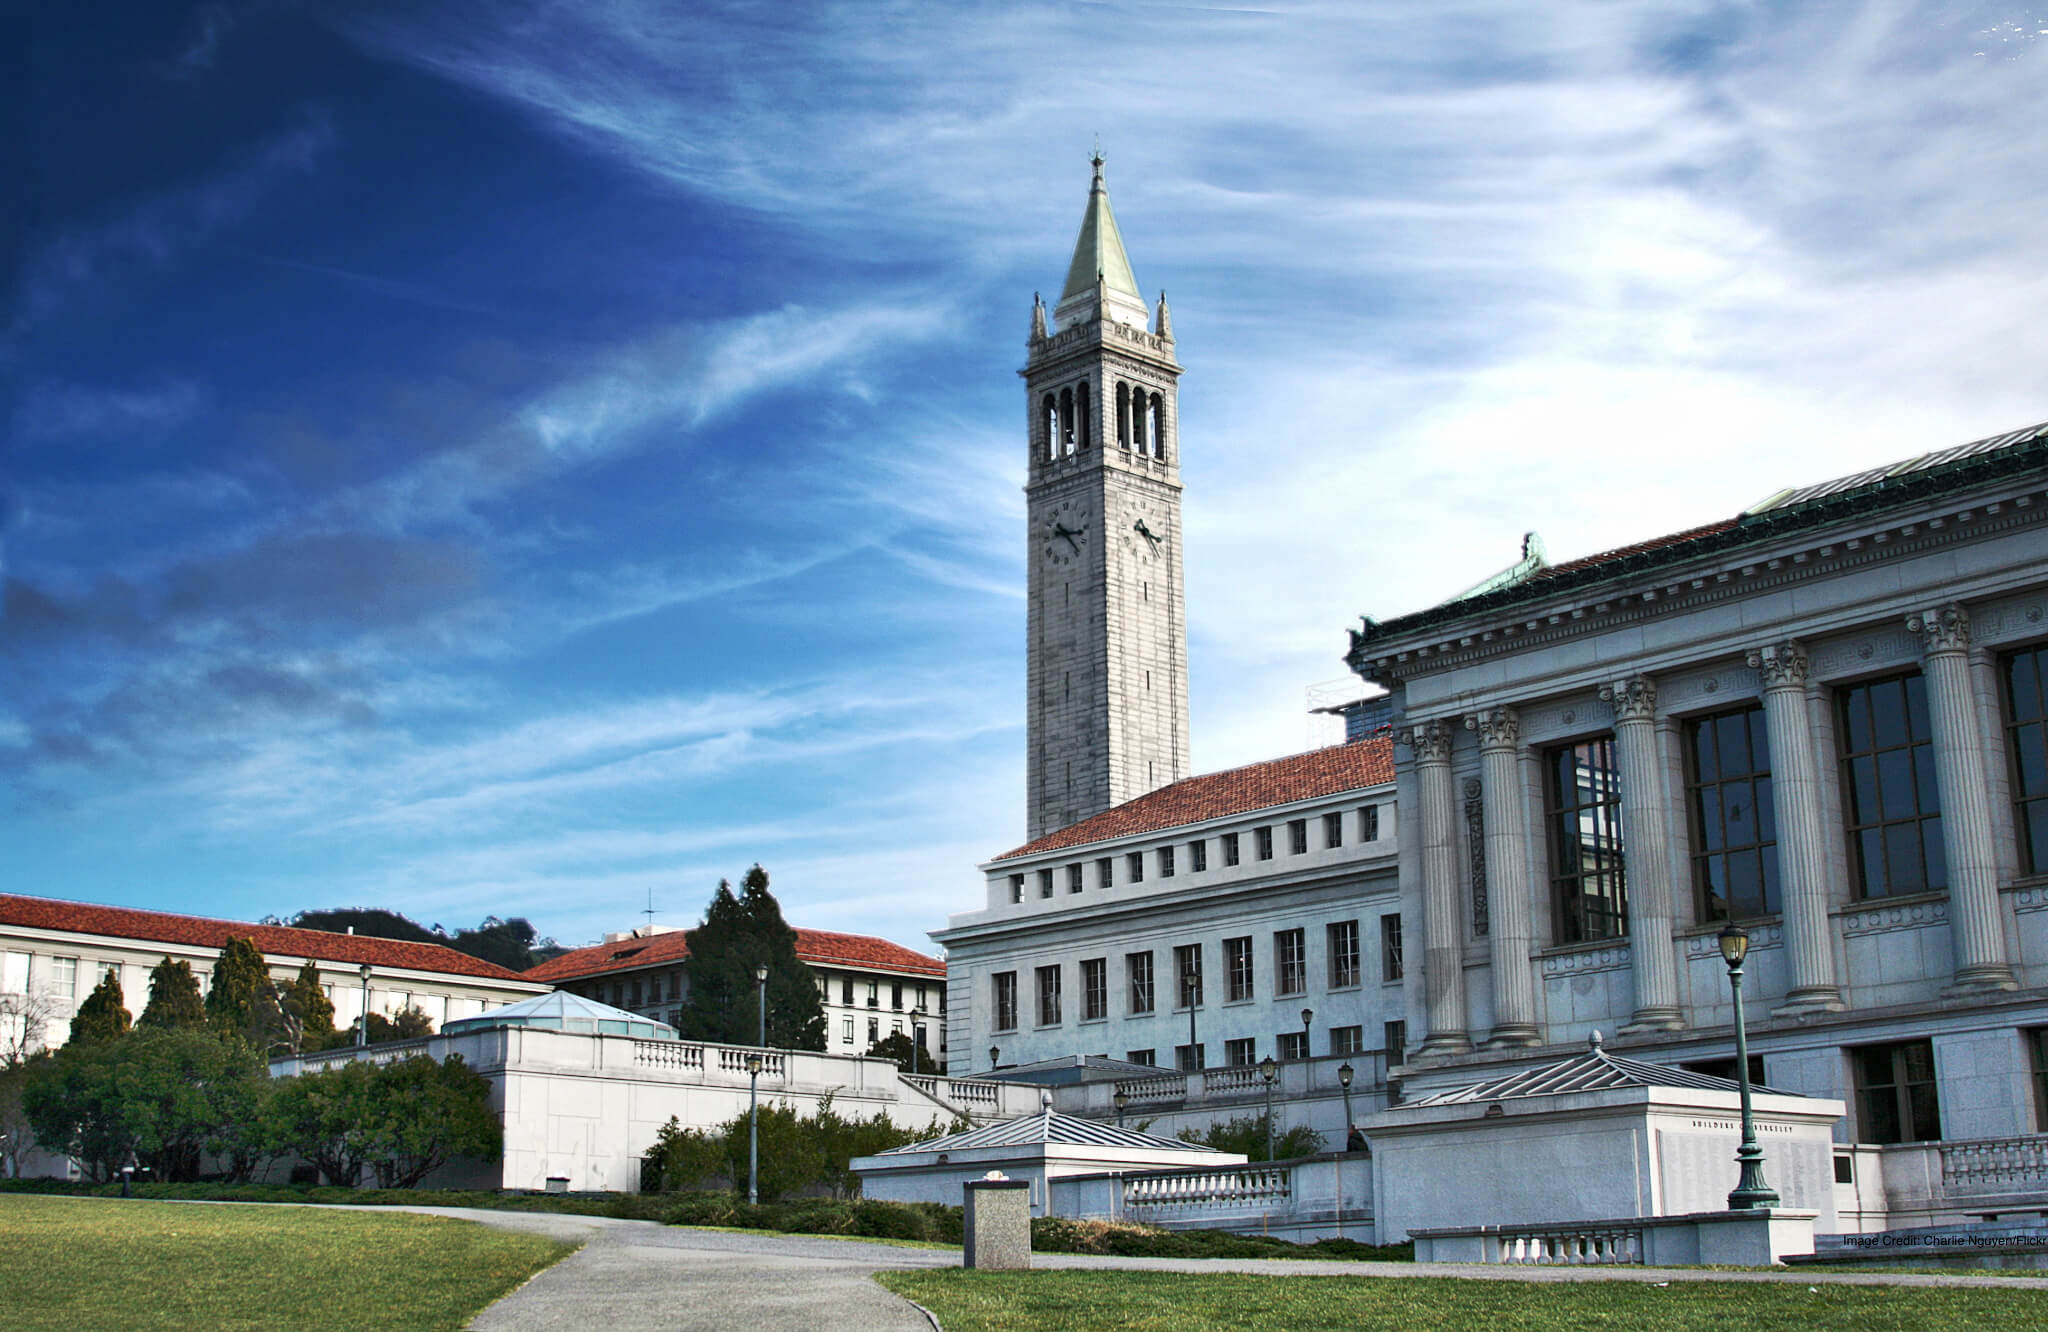
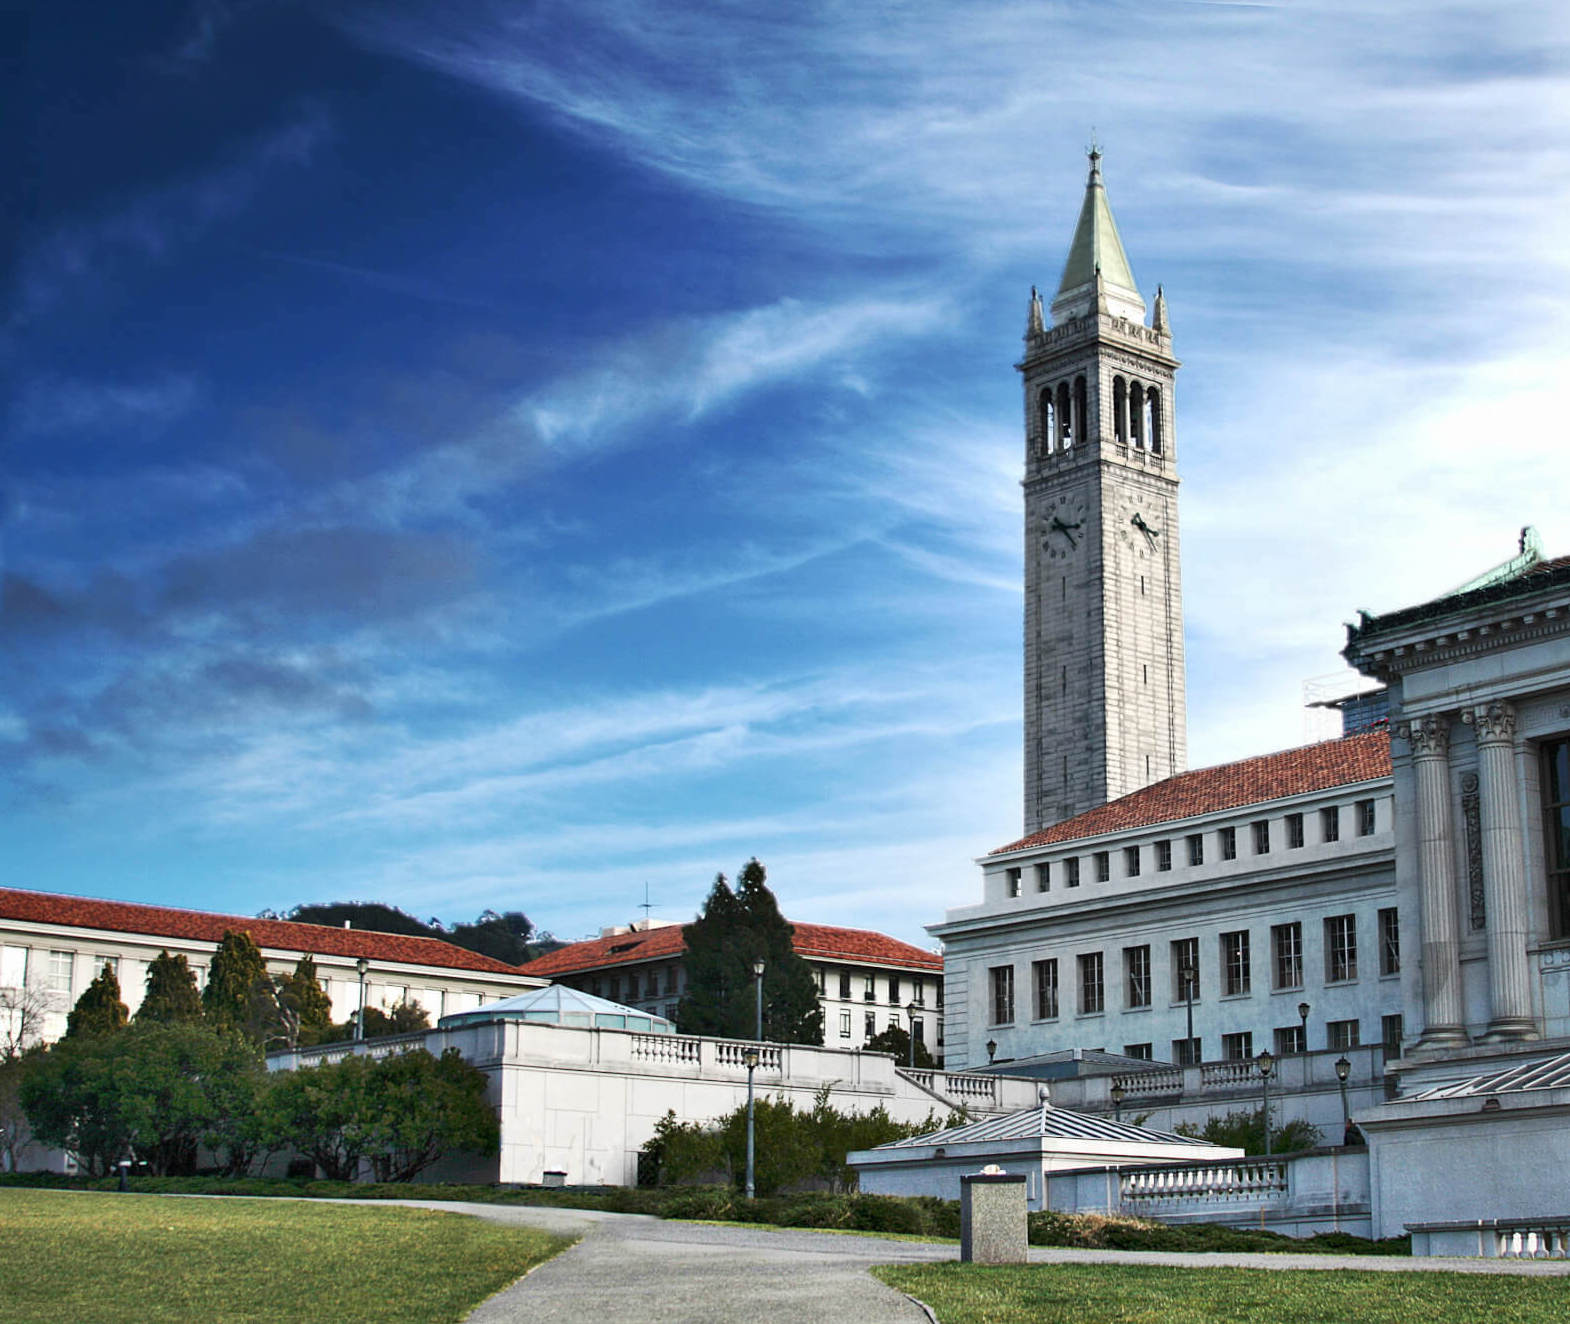
Fixed front page & made hyperlinks

diff --git a/_site/index.html b/_site/index.html
@@ -4,6 +4,7 @@
 <meta http-equiv="Content-Type" content="text/html; charset=utf-8" />
 <title>Prathyusha Charagondla</title>
 <link href='http://fonts.googleapis.com/css?family=Droid+Sans|Zeyada' rel='stylesheet' type='text/css'>
+<link rel="stylesheet" type="text/css" href="//fonts.googleapis.com/css?family=IM+Fell+French+Canon+SC" />
 <style type="text/css">
 * {
   margin: 0;
@@ -11,7 +12,7 @@
   outline: none;
 }
 body { 
-    background-image: url(images/Charlie-Nguyen-UC-Berkeley-Flickr.jpg); /* images/berkeleysather-1920x1080.png);*/
+    background-image: url(images/Berkeley2.jpg);
     background-repeat: no-repeat;
     background-size:cover;
     background-attachment: fixed;
@@ -22,19 +23,26 @@ body {
   width: 100%;
   text-align: center; 
   position: relative;*/
-  width:750px;
+  width:875px;
   margin:0 auto;
   list-style:none;
   position: relative;
 }
 #wrapper h1 {
-  font-family: 'Droid Sans', sans-serif;
-  margin: 125px 0 20px;
+  /*font-family: 'Droid Sans', sans-serif; Amaranth, Hammersmith One,Paytone+One,Sigmar+One */
+  font-family: IM Fell French Canon SC;
+  font-size: 60px;
+  font-style: normal;
+  font-variant: normal;
+  font-weight: 500;
+  line-height: 26.4px;
+  margin: 90px 0 20px;
   text-align: center;
   text-shadow: 0 2px 1px #fff;
+  padding-bottom: 35px;
 }
 #div1 {
-  color: #641d91;
+  color: rgba(255,255,255,0.70);/*#fdff8e;*/
   position: fixed;      
   bottom: 10px; 
   width: 100%;
@@ -47,47 +55,35 @@ body {
   width: 900px;
 }
 #main-nav {
-  /*width: 100%;
   float: left;
-  margin: 0 0 1em 0;
-  padding: 0;
-  box-shadow: 0 0 10px #ccc;*/
-
-  /*background: #7dad16;
-  background: -moz-linear-gradient(top, #7dad16 0%, #547b00 100%);
-  background: -webkit-gradient(linear, left top, left bottom, color-stop(0%,#7dad16), color-stop(100%,#547b00));
-  background: -webkit-linear-gradient(top, #7dad16 0%,#547b00 100%);
-  background: -o-linear-gradient(top, #7dad16 0%,#547b00 100%);
-  background: -ms-linear-gradient(top, #7dad16 0%,#547b00 100%);
-  background: linear-gradient(top, #7dad16 0%,#547b00 100%);
-  filter: progid:DXImageTransform.Microsoft.gradient( startColorstr='#fff', endColorstr='#547b00',GradientType=0 );*/
-  float: left;
-  width: 700px;
+  width: 875px;
   z-index: 1000;
   box-shadow: 0 0 10px #ccc;
   text-align: center;
+  background-color: rgba(255,255,255,0.45);
 }
 #main-nav ul {
-  font-family: 'Droid Sans', sans-serif;
-  font-size: .9em;
+  font-family: IM Fell French Canon SC;/*'Droid Sans', sans-serif;*/
+  font-size: 1.3em;
   font-weight: bold;
   list-style: none;
 }
 #main-nav ul li {
-  border-left: 1px solid #7dad16;
+  border-left: 1px outset;
+  border-color: rgba(0, 0, 0, 0.20);
   float: left;
 }
 #main-nav ul li:first-child {
   border: none;
 }
 #main-nav ul li a {
-  color: #2b4001;
+  color: #000;
   display: block;
   padding: 20px;
   position: relative;
   width: 134.2px;
   text-decoration: none;
-  text-shadow: 0 1px 1px #9fc255;
+  text-shadow: 0 1px 1px #fff;
 }
 #main-nav ul li a span.drop-down {
   background: url(images/down-arrow_green_10x7.png) no-repeat;
@@ -98,7 +94,7 @@ body {
   width: 10px;
 }
 #main-nav ul li:hover {
-  background: #7dad16;
+  background: rgba(255,255,255,0.65);
 }
 /* First Level drop-down */
 #main-nav ul li ul {
@@ -135,10 +131,11 @@ body {
   <!--div class="container"-->
     <div id="main-nav">
       <ul>
-        <li><a href="#">Home</a></li>
+        <li><a href=index.html>Home</a></li>
         <li><a href="#">About</a></li>
-        <li><a href="#">Resume</a></li>
-        <li><a href="#">Contact Me</a></li>
+        <li><a href="https://drive.google.com/file/d/0B-gwprSB9GjDcFFodzlTRU9vRDg/view?usp=sharing" target="_blank">Resume</a></li>
+        <li><a href="#">Projects</a></li>
+        <li><a href=pages/contact.html>Contact Me</a></li>
       </ul>
     </div>
     <!--#main-nav

diff --git a/index.html b/index.html
@@ -4,6 +4,7 @@
 <meta http-equiv="Content-Type" content="text/html; charset=utf-8" />
 <title>Prathyusha Charagondla</title>
 <link href='http://fonts.googleapis.com/css?family=Droid+Sans|Zeyada' rel='stylesheet' type='text/css'>
+<link rel="stylesheet" type="text/css" href="//fonts.googleapis.com/css?family=IM+Fell+French+Canon+SC" />
 <style type="text/css">
 * {
   margin: 0;
@@ -11,7 +12,7 @@
   outline: none;
 }
 body { 
-    background-image: url(images/Charlie-Nguyen-UC-Berkeley-Flickr.jpg); /* images/berkeleysather-1920x1080.png);*/
+    background-image: url(images/Berkeley2.jpg);
     background-repeat: no-repeat;
     background-size:cover;
     background-attachment: fixed;
@@ -22,19 +23,26 @@ body {
   width: 100%;
   text-align: center; 
   position: relative;*/
-  width:750px;
+  width:875px;
   margin:0 auto;
   list-style:none;
   position: relative;
 }
 #wrapper h1 {
-  font-family: 'Droid Sans', sans-serif;
-  margin: 125px 0 20px;
+  /*font-family: 'Droid Sans', sans-serif; Amaranth, Hammersmith One,Paytone+One,Sigmar+One */
+  font-family: IM Fell French Canon SC;
+  font-size: 60px;
+  font-style: normal;
+  font-variant: normal;
+  font-weight: 500;
+  line-height: 26.4px;
+  margin: 90px 0 20px;
   text-align: center;
   text-shadow: 0 2px 1px #fff;
+  padding-bottom: 35px;
 }
 #div1 {
-  color: #641d91;
+  color: rgba(255,255,255,0.70);/*#fdff8e;*/
   position: fixed;      
   bottom: 10px; 
   width: 100%;
@@ -47,47 +55,35 @@ body {
   width: 900px;
 }
 #main-nav {
-  /*width: 100%;
   float: left;
-  margin: 0 0 1em 0;
-  padding: 0;
-  box-shadow: 0 0 10px #ccc;*/
-
-  /*background: #7dad16;
-  background: -moz-linear-gradient(top, #7dad16 0%, #547b00 100%);
-  background: -webkit-gradient(linear, left top, left bottom, color-stop(0%,#7dad16), color-stop(100%,#547b00));
-  background: -webkit-linear-gradient(top, #7dad16 0%,#547b00 100%);
-  background: -o-linear-gradient(top, #7dad16 0%,#547b00 100%);
-  background: -ms-linear-gradient(top, #7dad16 0%,#547b00 100%);
-  background: linear-gradient(top, #7dad16 0%,#547b00 100%);
-  filter: progid:DXImageTransform.Microsoft.gradient( startColorstr='#fff', endColorstr='#547b00',GradientType=0 );*/
-  float: left;
-  width: 700px;
+  width: 875px;
   z-index: 1000;
   box-shadow: 0 0 10px #ccc;
   text-align: center;
+  background-color: rgba(255,255,255,0.45);
 }
 #main-nav ul {
-  font-family: 'Droid Sans', sans-serif;
-  font-size: .9em;
+  font-family: IM Fell French Canon SC;/*'Droid Sans', sans-serif;*/
+  font-size: 1.3em;
   font-weight: bold;
   list-style: none;
 }
 #main-nav ul li {
-  border-left: 1px solid #7dad16;
+  border-left: 1px outset;
+  border-color: rgba(0, 0, 0, 0.20);
   float: left;
 }
 #main-nav ul li:first-child {
   border: none;
 }
 #main-nav ul li a {
-  color: #2b4001;
+  color: #000;
   display: block;
   padding: 20px;
   position: relative;
   width: 134.2px;
   text-decoration: none;
-  text-shadow: 0 1px 1px #9fc255;
+  text-shadow: 0 1px 1px #fff;
 }
 #main-nav ul li a span.drop-down {
   background: url(images/down-arrow_green_10x7.png) no-repeat;
@@ -98,7 +94,7 @@ body {
   width: 10px;
 }
 #main-nav ul li:hover {
-  background: #7dad16;
+  background: rgba(255,255,255,0.65);
 }
 /* First Level drop-down */
 #main-nav ul li ul {
@@ -135,10 +131,11 @@ body {
   <!--div class="container"-->
     <div id="main-nav">
       <ul>
-        <li><a href="#">Home</a></li>
+        <li><a href=index.html>Home</a></li>
         <li><a href="#">About</a></li>
-        <li><a href="#">Resume</a></li>
-        <li><a href="#">Contact Me</a></li>
+        <li><a href="https://drive.google.com/file/d/0B-gwprSB9GjDcFFodzlTRU9vRDg/view?usp=sharing" target="_blank">Resume</a></li>
+        <li><a href="#">Projects</a></li>
+        <li><a href=pages/contact.html>Contact Me</a></li>
       </ul>
     </div>
     <!--#main-nav

diff --git a/_site/stylesheets/stylesheet.css b/_site/stylesheets/stylesheet.css
@@ -371,3 +371,44 @@ footer a:hover {
 
 /* Mobile Portrait Size to Mobile Landscape Size (devices and browsers) */
 @media only screen and (max-width: 479px) { }
+
+h1 {
+  font-family: Monofett;
+  font-size: 24px;
+  font-style: normal;
+  font-variant: normal;
+  font-weight: 500;
+  line-height: 26.4px;
+}
+h3 {
+  font-family: Monofett;
+  font-size: 14px;
+  font-style: normal;
+  font-variant: normal;
+  font-weight: 500;
+  line-height: 15.4px;
+}
+p {
+  font-family: Monofett;
+  font-size: 14px;
+  font-style: normal;
+  font-variant: normal;
+  font-weight: 400;
+  line-height: 20px;
+}
+blockquote {
+  font-family: Monofett;
+  font-size: 21px;
+  font-style: normal;
+  font-variant: normal;
+  font-weight: 400;
+  line-height: 30px;
+}
+pre {
+  font-family: Monofett;
+  font-size: 13px;
+  font-style: normal;
+  font-variant: normal;
+  font-weight: 400;
+  line-height: 18.5714px;
+}

diff --git a/stylesheets/stylesheet.css b/stylesheets/stylesheet.css
@@ -371,3 +371,44 @@ footer a:hover {
 
 /* Mobile Portrait Size to Mobile Landscape Size (devices and browsers) */
 @media only screen and (max-width: 479px) { }
+
+h1 {
+  font-family: Monofett;
+  font-size: 24px;
+  font-style: normal;
+  font-variant: normal;
+  font-weight: 500;
+  line-height: 26.4px;
+}
+h3 {
+  font-family: Monofett;
+  font-size: 14px;
+  font-style: normal;
+  font-variant: normal;
+  font-weight: 500;
+  line-height: 15.4px;
+}
+p {
+  font-family: Monofett;
+  font-size: 14px;
+  font-style: normal;
+  font-variant: normal;
+  font-weight: 400;
+  line-height: 20px;
+}
+blockquote {
+  font-family: Monofett;
+  font-size: 21px;
+  font-style: normal;
+  font-variant: normal;
+  font-weight: 400;
+  line-height: 30px;
+}
+pre {
+  font-family: Monofett;
+  font-size: 13px;
+  font-style: normal;
+  font-variant: normal;
+  font-weight: 400;
+  line-height: 18.5714px;
+}

diff --git a/_site/pages/contact.html b/_site/pages/contact.html
@@ -1,0 +1,22 @@
+<!DOCTYPE HTML>
+<html>
+
+<head>
+<meta http-equiv="Content-Type" content="text/html; charset=utf-8">
+<title>Contact Form</title>
+</head>
+
+<body>
+
+    <header class="body">
+    </header>
+
+    <section class="body">
+    </section>
+
+    <footer class="body">
+    </footer>
+
+</body>
+
+</html>

diff --git a/pages/contact.html b/pages/contact.html
@@ -1,0 +1,22 @@
+<!DOCTYPE HTML>
+<html>
+
+<head>
+<meta http-equiv="Content-Type" content="text/html; charset=utf-8">
+<title>Contact Form</title>
+</head>
+
+<body>
+
+    <header class="body">
+    </header>
+
+    <section class="body">
+    </section>
+
+    <footer class="body">
+    </footer>
+
+</body>
+
+</html>
